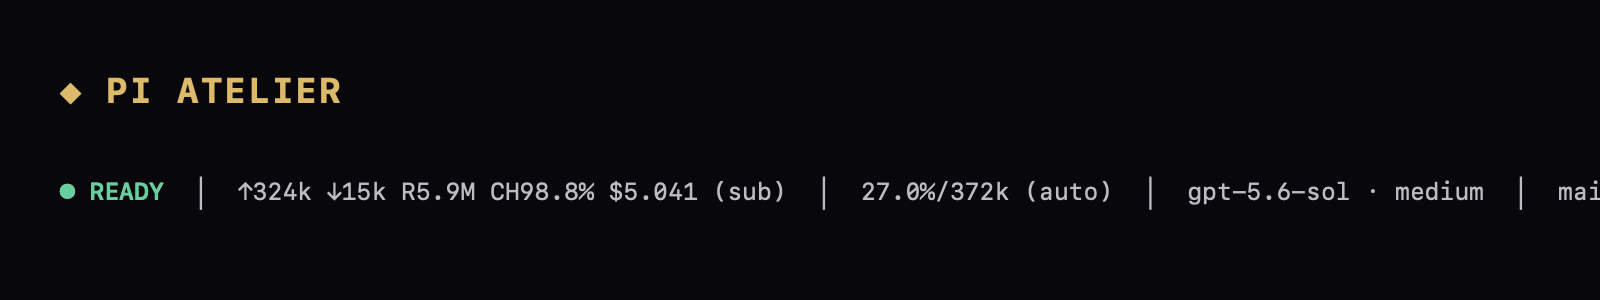
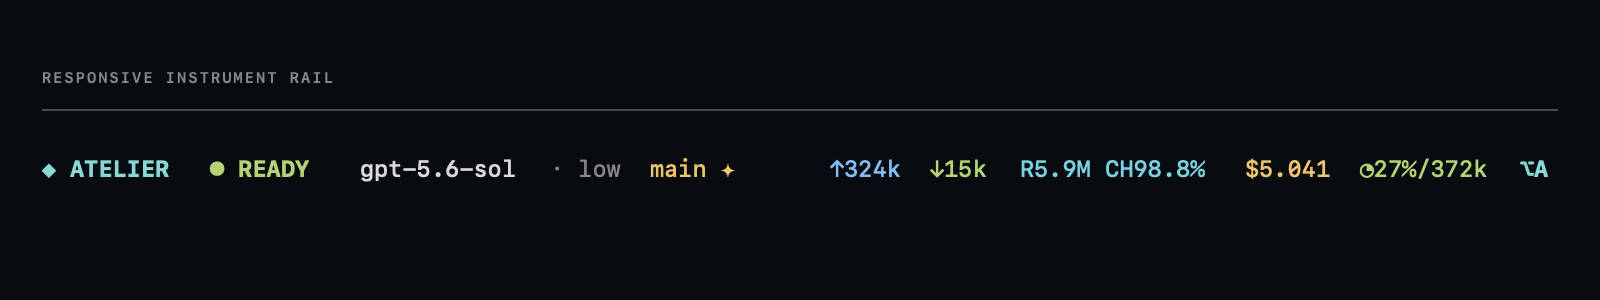
docs: update responsive footer presentation

diff --git a/README.md b/README.md
@@ -9,8 +9,10 @@ Pi Atelier replaces Pi's default footer with a responsive editorial-luxe bar whi
 ## Preview
 
 ```text
-◆ ATELIER  ● READY │ ↑324k ↓15k R5.9M CH98.8% $5.041 (sub) │ 27.0%/372k (auto) │ gpt-5.6-sol · medium │ main ✦ │ ⌥A MENU
+◆ ATELIER  ● READY  gpt-5.6-sol · low  main ✦        ↑324k ↓15k  R5.9M CH98.8%  $5.041 (sub)  ◔27.0%/372k (auto)  ⌥A MENU
 ```
+
+Wide terminals use a dual-zone instrument rail: workspace identity stays left while operational telemetry is right-aligned. Semantic jewel-tone colors distinguish input, output, cache, cost, context health, and agent state without hard-coded terminal colors.
 
 ## Features
 
@@ -146,10 +148,13 @@ Unknown or invalid values are ignored with one warning. The required `metrics` a
 
 ## Responsive behavior
 
-- **Wide:** brand, activity, metrics, context, model, thinking, git, extension statuses, menu hint
-- **Medium:** complete metrics/context with reduced ornament and secondary details
-- **Narrow (56+):** compact complete metrics/context; optional workspace segments hide first
-- **Very narrow:** metrics-first ANSI-aware truncation with no wrapping
+- **Gallery (132+):** complete left-aligned workspace zone and right-aligned telemetry zone
+- **Balanced (96–131):** compact brand, model, Git, telemetry, context, and shortcut groups
+- **Focus (72–95):** activity, bounded model identity, core telemetry, context, and shortcut when space permits
+- **Telemetry (56–71):** complete compact operational metrics and context without decorative workspace data
+- **Safe (<56):** metrics-first ANSI-aware truncation with no wrapping
+
+Color remains semantic at every width: input uses the theme's variable color, output uses success, cache uses type color, cost uses warning/gold, and context transitions from success to warning to error at configured thresholds.
 
 ## Privacy and security
 

diff --git a/CHANGELOG.md b/CHANGELOG.md
@@ -2,6 +2,8 @@
 
 ## 0.1.0
 
+- Add semantic jewel-tone telemetry colors and five deterministic responsive layouts.
+- Add a wide dual-zone instrument rail with elastic workspace/telemetry alignment.
 - Add responsive editorial-luxe Pi footer.
 - Preserve Pi usage, cache, cost, subscription, context, and compaction metrics.
 - Add model, thinking-level, tool, display, and safe session controls.